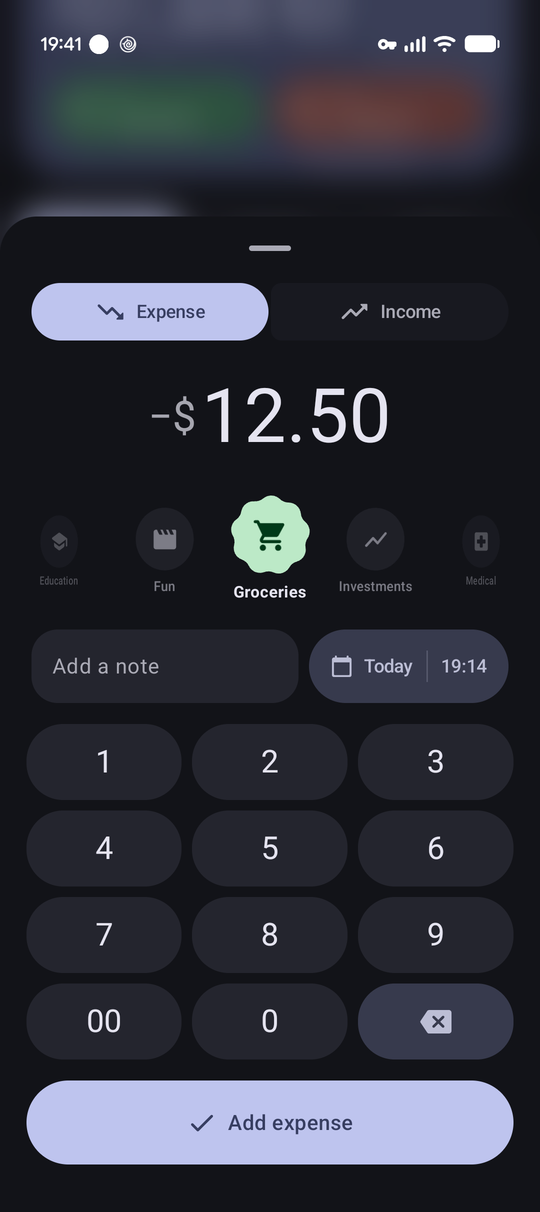
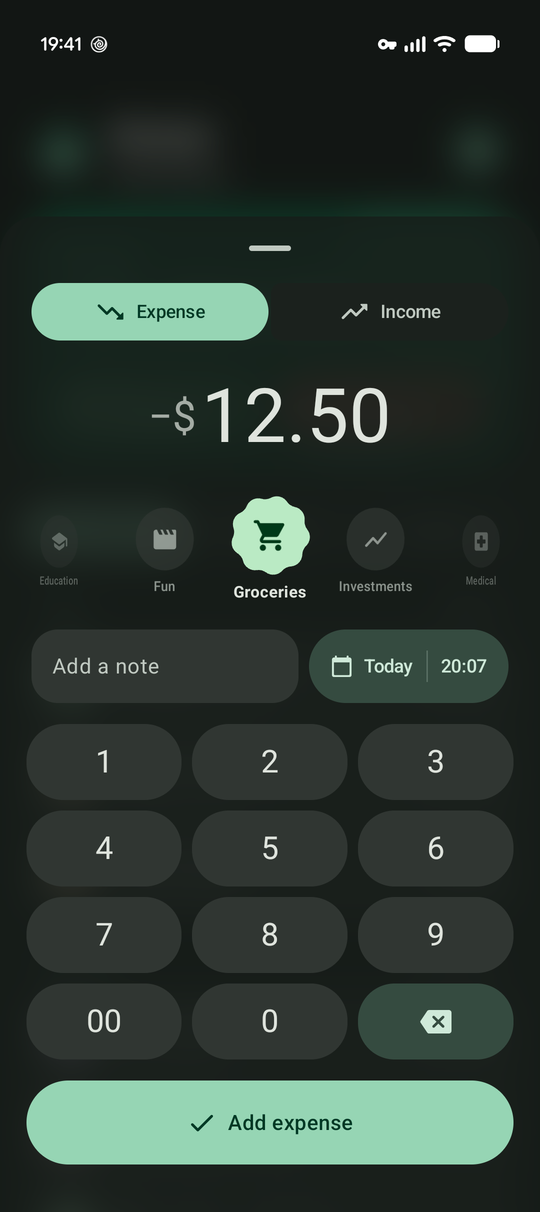
Trim the README and retake its screenshots
The screenshots now show the glass coin, the stronger add button and the
glass entry sheet. The README keeps one line per feature, the essentials
of the CSV format and the build commands; the import header table and
the project tree are gone (AGENTS.md covers the architecture). It also
drops the delete undo that no longer exists and links Dime.

diff --git a/README.md b/README.md
@@ -2,8 +2,6 @@
 
 A cozy little expense tracker for Android, built with Jetpack Compose and
 [Material 3 Expressive](https://m3.material.io/).
-Log what comes in and what goes out, sort it into categories, and keep an eye on
-the running total — with plenty of springy, shape-shifting motion along the way.
 
 <p align="center">
   <img src="docs/screenshots/home.png" width="260" alt="Home screen: net total card, income and expense filters, and today's transactions grouped by day">
@@ -13,113 +11,43 @@ the running total — with plenty of springy, shape-shifting motion along the wa
 
 ## Features
 
-- **Running total at a glance.** The net total sits at the top of the home screen
-  and rolls like an odometer when it changes, with income and spending shown
-  underneath.
-- **Fast entry.** Tap the spinning scalloped **+** and choose Income or Expense. A
-  custom number pad, swipeable category picker, optional note, and date picker
-  (for logging things after the fact) all fit in one sheet.
-- **Categories with character.** Each category has its own icon and Material
-  shape — Paycheck, Salary, Groceries, Rent, Medical, Subscriptions, and more.
-  Categories from imported files are recreated with fitting icons.
-- **A tidy history.** Transactions are grouped by day with daily totals, and can
-  be filtered to just income or just expenses. Tap one to edit it, or swipe it
-  away to delete (with undo).
-- **Dynamic color.** Follows your wallpaper's Material You palette, or switch it
-  off for Nickel's own sage-green theme. Light and dark mode are both supported.
-- **CSV import and export.** Bring in your history from
-  Dime or a spreadsheet, and export everything back
-  out at any time. See [CSV format](#csv-format).
-- **Expressive by design.** Spring-based motion, shape morphing, connected button
-  groups, a predictive back gesture, loading indicators, and custom haptics.
-- **Frosted glass.** On Android 17 QPR2, the add button and header buttons are
-  lightly tinted glass that blurs whatever scrolls beneath them, and the entry
-  sheet frosts the screen behind it as it grows out of the button. Earlier
-  Android 17 builds get the same controls as solid tonal surfaces.
+- A running total that rolls like an odometer, with history grouped by day
+- Quick entry from the spinning **+**: number pad, category dial, note and date in one sheet
+- Swipe a transaction right to duplicate it, left to delete it
+- Frosted glass on Android 17 QPR2, with springy, shape-morphing motion throughout
+- Dynamic color, or Nickel's own sage-green theme
+- CSV import and export, automatic backups to a folder you pick, and a home-screen widget
 
+<p align="center">
   <img src="docs/screenshots/glass.png" width="540" alt="Close-up of the glass add button blurring a transaction row scrolling underneath it">
+</p>
 
 ## Privacy
 
-Nickel has no network access — the app doesn't request the internet permission.
-Your ledger lives only in the app's private storage on your device, and only
-leaves it when you export a CSV yourself.
+No internet permission. Your ledger stays on your device unless you export it.
 
-## CSV format
+## CSV
 
-Exports use the same layout as Dime, so files move cleanly between the two apps:
+Exports use the same layout as [Dime](https://github.com/rafsoh/dimeApp), so files move between the two apps:
 
 ```csv
 Date,Note,Amount,Category,Type
 2026-10-31 14:12:45 +0000,Groceries run,42.18,Groceries,Expense
-2026-10-29 17:23:00 +0000,Paycheck,1500.00,Paycheck,Income
 ```
 
-Imports are more flexible. Columns are matched by header name, so most exports
-work as long as they have a **date** and an **amount** column:
-
-| Field    | Accepted headers                                          |
-| -------- | --------------------------------------------------------- |
-| Date     | `Date`, `Time`, `Timestamp`, `Datetime`, `Created`        |
-| Amount   | `Amount`, `Value`, `Sum`, `Price`                         |
-| Note     | `Note`, `Notes`, `Title`, `Description`, `Memo`, `Name`, `Payee` |
-| Category | `Category`, `Categories`, `Tag`                           |
-| Type     | `Type`, `Kind`, `Transaction type`                        |
-
-- **Dates** can include a timezone offset (as Dime's do), be ISO 8601, or be
-  plain `yyyy-MM-dd` / `M/d/yyyy` dates. Past dates are kept exactly as written.
-- **Amounts** may include currency symbols, thousands separators, a minus sign,
-  or accounting-style parentheses.
-- **Type** accepts values like `Income`/`Expense` or `Credit`/`Debit`. Without a
-  type column, positive amounts are treated as income and negative as expenses.
-- **Categories** that match a built-in one are reused; anything else becomes a
-  new custom category.
-- **Re-importing is safe.** Transactions already in Nickel are recognized and
-  skipped, and you'll see a preview of what will be added before anything is
-  saved.
+Imports match columns by header name, so most spreadsheets work as long as they
+have a date and an amount. You get a preview before anything is saved, and
+transactions you already have are skipped.
 
 ## Building
 
-Requirements:
-
-- Android SDK with platform 37.2 (Android 17 QPR2; set `sdk.dir` in
-  `local.properties`, or `ANDROID_HOME`)
-- A JDK supported by Gradle 9.8 (the wrapper handles Gradle itself)
-- A device or emulator running Android 17 (API 37) or newer; frosted glass
-  needs QPR2 (API 37.2)
+Needs the Android SDK with platform 37.2 and a device on Android 17 or newer.
 
 ```sh
 ./gradlew installDebug      # build and install on a connected device
 ./gradlew testDebugUnitTest # run the unit tests
 ```
 
-## Project structure
-
-```
-app/src/main/java/io/github/draumaz/nickel/
-├── MainActivity.kt            # entry point and screen navigation
-├── data/
-│   ├── Models.kt              # transactions, categories, icon and shape registries
-│   ├── TransactionRepository.kt  # JSON-backed ledger storage
-│   ├── SettingsRepository.kt  # preferences (dynamic color)
-│   ├── Csv.kt                 # CSV parsing, import planning, and export
-│   └── Money.kt               # currency formatting and keypad input
-└── ui/
-    ├── HomeScreen.kt          # total, filters, transaction list, add button
-    ├── EntrySheet.kt          # add/edit sheet
-    ├── Keypad.kt              # number pad
-    ├── SettingsScreen.kt      # settings, import/export flow
-    ├── NickelViewModel.kt     # app state
-    ├── Haptics.kt             # composed vibration effects
-    ├── components/            # shared composables (header, badges, rolling text, glass)
-    └── theme/                 # color schemes and theme
-```
-
-## Tech
-
-Kotlin · Jetpack Compose · Material 3 (1.5 beta, Expressive APIs) ·
-Android Gradle Plugin 9 · min SDK 37, target SDK 37, compile SDK 37.2
-
 ## License
 
-Nickel is released under the [MIT License](LICENSE).
+[MIT](LICENSE)
